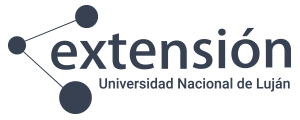
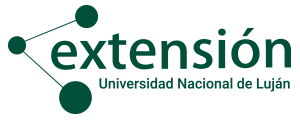
Update Footer

diff --git a/index.html b/index.html
@@ -1177,17 +1177,18 @@
     <!-- Pie de Página (Footer) -->
     <footer id="footer-section" class="bg-section-footer text-white py-12 text-center">
         <div class="container mx-auto px-4">
-            <p class="text-gray-700 text-lg mt-8 mb-4">
+            <p class="text-emerald-900 font-semibold text-lg mt-8 mb-4">
                 Podés seguirnos en nuestras redes
             </p>
                 <div class="space-x-8 text-4xl">
-                    <a href="https://www.instagram.com/edunlu_editorial/" target="_blank" class="text-gray-700 hover:text-pink-500 transition duration-300"><i class="fab fa-instagram"></i></a>
-                    <a href="https://www.youtube.com/@edunlu5875" target="_blank" class="text-gray-700 hover:text-red-600 transition duration-300"><i class="fab fa-youtube"></i></a>
-                    <a href="http://www.facebook.com/EdUNLueditorial/" target="_blank" class="text-gray-700 hover:text-blue-600 transition duration-300"><i class="fab fa-facebook"></i></a>
+                    <a href="https://www.instagram.com/edunlu_editorial/" target="_blank" class="text-emerald-900 hover:text-pink-500 transition duration-300"><i class="fab fa-instagram"></i></a>
+                    <a href="https://www.youtube.com/@edunlu5875" target="_blank" class="text-emerald-900 hover:text-red-600 transition duration-300"><i class="fab fa-youtube"></i></a>
+                    <a href="http://www.facebook.com/EdUNLueditorial/" target="_blank" class="text-emerald-900 hover:text-blue-600 transition duration-300"><i class="fab fa-facebook"></i></a>
                 </div>
         </div>
         <div class="flex flex-col md:flex-row justify-center items-center gap-2 mt-8">
             <img src="https://edunlu-editorial.github.io/10-ANIVERSARIO/activos/ext-unlu.png" alt="Marca Extensión UNLu" class="scale-[0.7]">
+            <img src="/activos/upa-unlu.png" alt="Marca UNLu" class="scale-[0.7]">
             <img src="https://edunlu-editorial.github.io/10-ANIVERSARIO/activos/unlu.png" alt="Marca UNLu" class="scale-[0.7]">
         </div>
     </footer>
